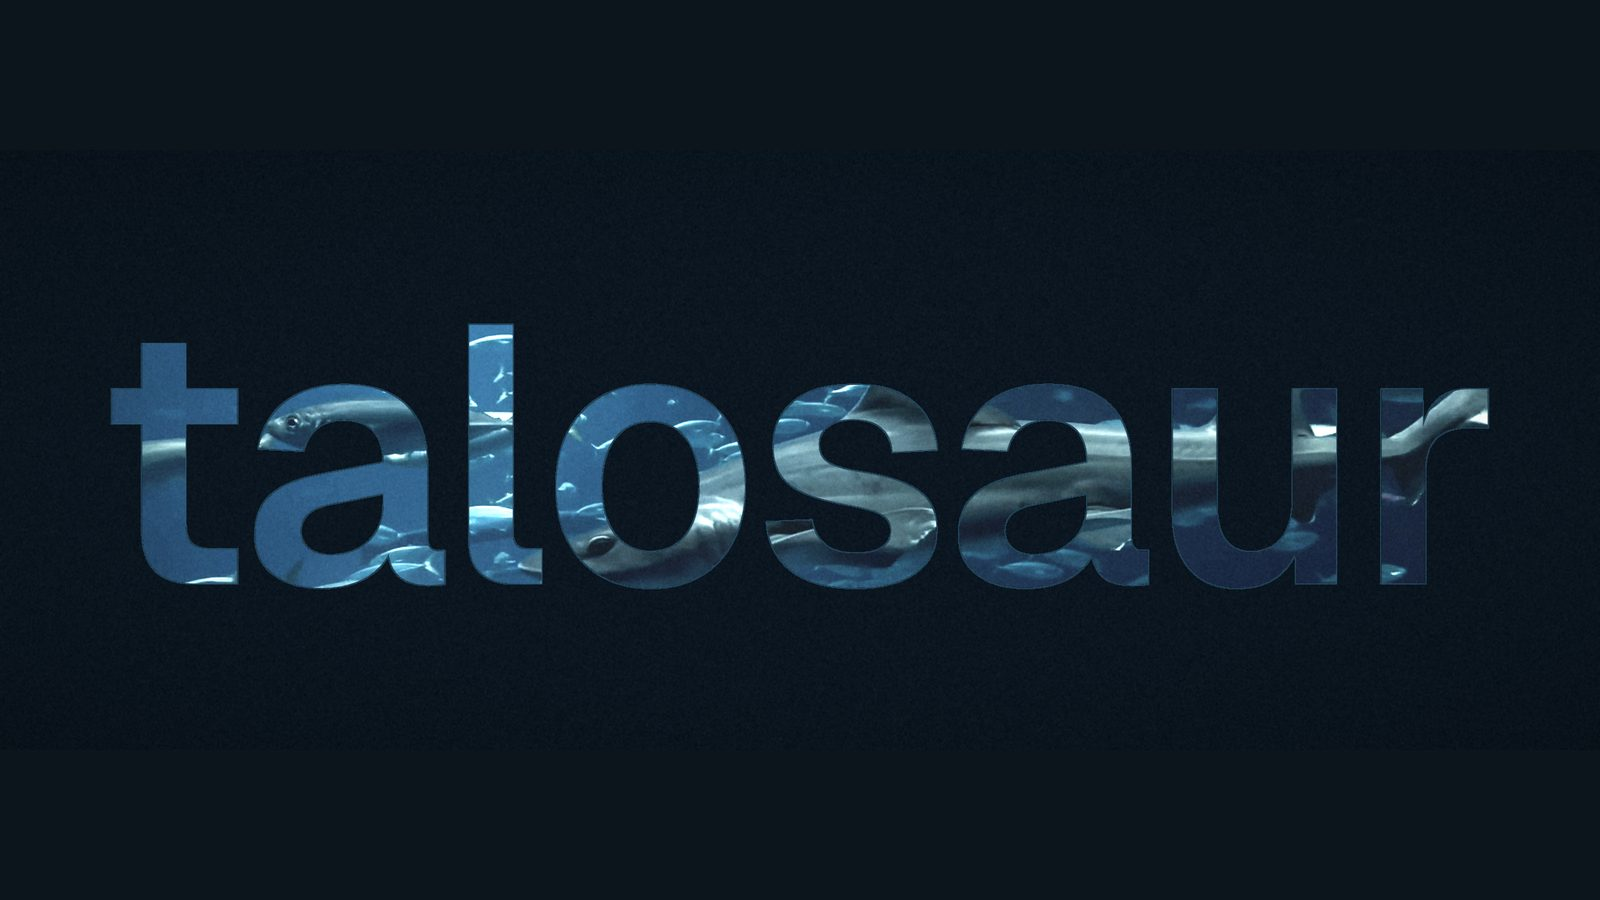
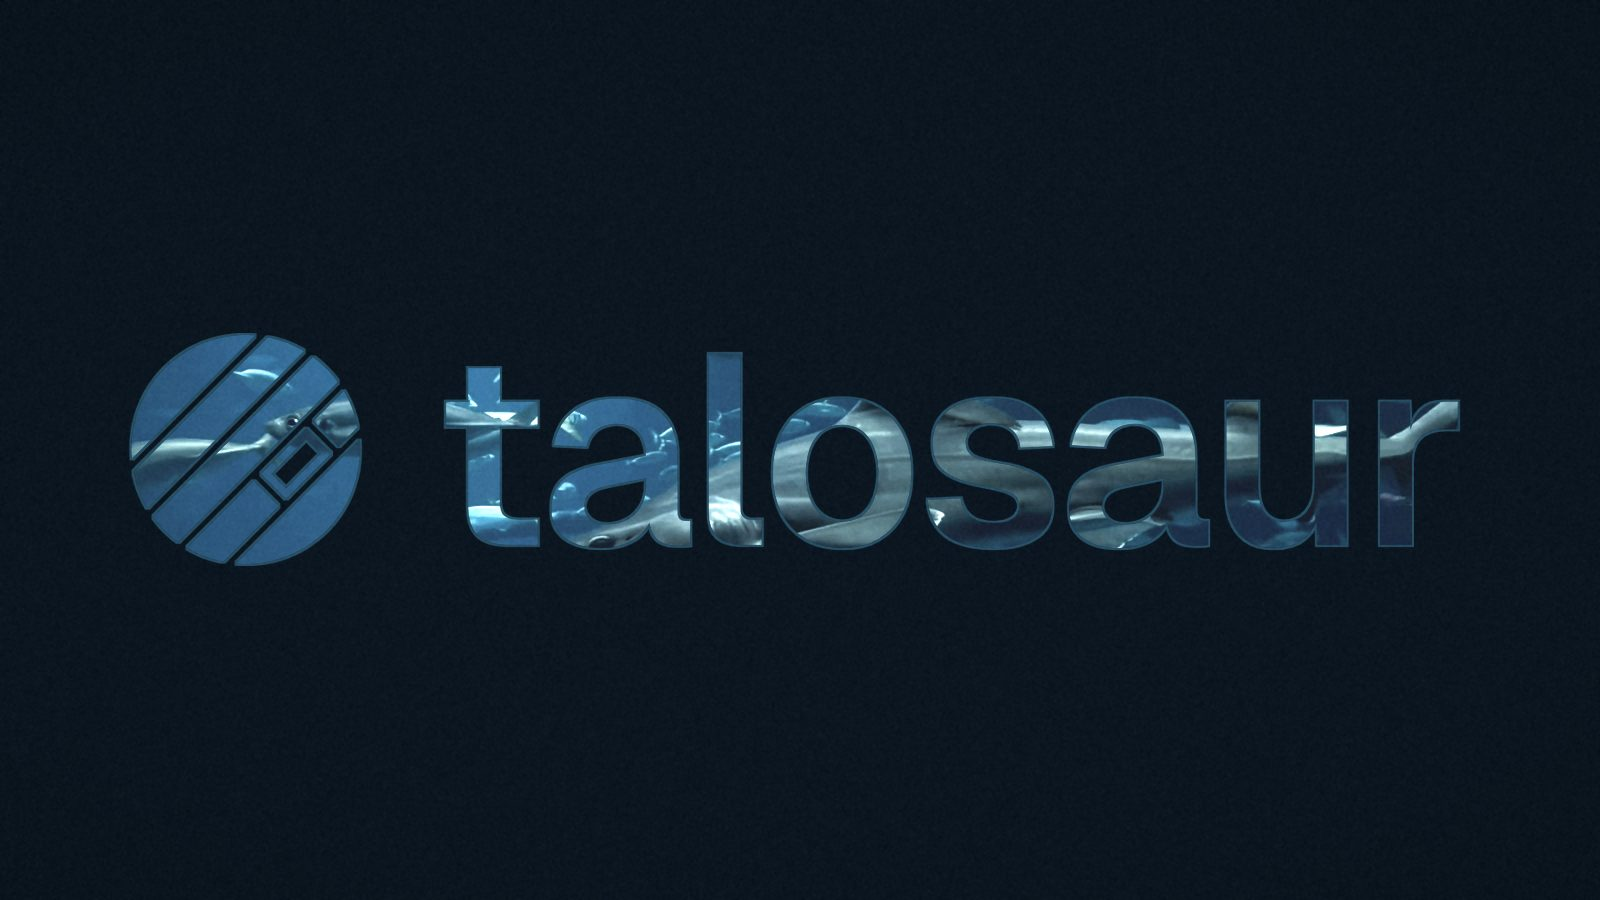
Photo headers on every inner page and new Home card images
- PageHeader takes an image (public/images/pages/) and becomes a
  full-width photo band under a floating menu, like the Home video.
  Without an image it stays the plain title with the glow.
- Six edited backgrounds, one film-style edit each: fish school with a
  pixel-drag smear (Who we are), sunbeams sinking into dots (The
  Problem), rover descent as a monitor feed (News), ship's wake with a
  dither split (Work with us), lathe in 1-bit (Positions), reef with
  displaced slices (Donate).
- Home cards: Live (camera feed), Who we are (logo cut out of a fish
  school), build log (the test ladder), twilight zone (jellyfish),
  meet the team (research ship crew), get in touch (ship offshore).
- All new images are from Pexels or NOAA (public domain).
- README: page-header photos, card table, logo and icon files.

Claude-Session: https://claude.ai/code/session_01HPvjW6KZMfatoVEK835rkc

Changed region(s): [[0.0625, 0.3422, 0.9375, 0.6533]]

diff --git a/README.md b/README.md
@@ -30,7 +30,9 @@ npm run check    # looks for mistakes in the code (typos in data files, missing 
 | What | File |
 |---|---|
 | Colors, fonts, spacing | `src/styles/global.css` (the `:root` block at the top) |
-| Top navigation and footer links, team email, social links | `src/data/site.ts` |
+| Top navigation and footer links, team email, social links, Twitch link | `src/data/site.ts` |
+| Logo files and browser-tab icons | `public/brand/`, `public/favicon.*`, `public/apple-touch-icon.png` |
+| Page-header photos | `public/images/pages/` |
 | Top navigation design | `src/components/Header.astro` |
 | Footer design | `src/components/Footer.astro` |
 | Home page video hero | `src/components/HeroVideo.astro` |
@@ -73,21 +75,35 @@ All photos live in `public/images/`. To swap one, overwrite the file and keep th
 |---|---|---|
 | `home-turtle.jpg` | Turtle | The 1775 Turtle illustration |
 | `home-edna.jpg` | Deep eDNA possibilities | DNA helix (still from the hero video) |
-| `home-live.jpg` | Talosaur Live | Research ship deck (still from the hero video) |
-| `home-team.jpg` | Who we are | Talosaur wordmark over a school of fish |
+| `home-live.jpg` | Talosaur Live | Milling machine as a "LIVE" camera feed (links to Twitch) |
+| `home-team.jpg` | Who we are | Talosaur logo cut out of a school of fish |
 | `home-positions.jpg` | Open positions | Hands at work in a lab (still from the hero video) |
-| `home-build-log.jpg` | Our build log | Light rays underwater |
-| `home-twilight-zone.jpg` | The twilight zone | Old map blending into a sonar map |
-| `home-meet-the-team.jpg` | Meet the team | School of fish (still from the hero video) |
-| `home-get-in-touch.jpg` | Get in touch | Jellyfish (still from the hero video) |
+| `home-build-log.jpg` | Our build log | The test ladder, Bench to Offshore, with "Now: Bench" |
+| `home-twilight-zone.jpg` | The twilight zone | Sea nettle jellyfish, half photo and half dots |
+| `home-meet-the-team.jpg` | Meet the team | Crew and rover on a research ship deck (NOAA) |
+| `home-get-in-touch.jpg` | Get in touch | A ship offshore |
 
-Swap any of these for real team photos whenever you have them.
+Swap any of these for real team photos whenever you have them. The build log image shows "Now: Bench"; when testing moves to the next step, ask for it to be regenerated (or swap in a photo from that test).
+
+**Page headers.** Every page in the top menu opens with a full-width photo band. The photos live in `public/images/pages/` and are named after the page: `who-we-are.jpg`, `the-problem.jpg`, `news.jpg`, `work-with-us.jpg`, `positions.jpg`, `donate.jpg`. Each is 2400 × 1350 and edited in the same style as the Home video (dots, smears, scan lines). The title sits over the bottom-left of the photo, so keep that area calm and darkish. To change which part of a photo stays visible on phones, edit `imagePosition` where the page uses `<PageHeader>` (for example `imagePosition="60% 50%"` keeps a bit right of center). Delete a page's photo and that page goes back to a plain title.
 
 **Team members:** the `photo` name in `src/data/team.ts`, saved in `public/images/team/` (portrait, about 800 × 1000 px). Until the file exists the card shows a panel with the person's initials.
 
 **News posts:** add `image: name.jpg` to the post and save the file in `public/images/news/`.
 
-Other files in `public/images/`: `hero-poster.jpg` (the still behind the Home video) and `og-image.jpg` (the preview image when a link to the site is shared).
+Other files in `public/images/`: `hero-poster.jpg` (the still behind the Home video) and `og-image.jpg` (the preview image when a link to the site is shared: the logo over a jellyfish, 1200 × 630).
+
+## Logo and icons
+
+The logo files are in `public/brand/` and come from the Talosaur brand pack (striped disc plus the lowercase wordmark):
+
+| File | Where it shows |
+|---|---|
+| `talosaur-lockup-reverse.svg` | Top menu (light stripes for the dark background) |
+| `talosaur-lockup-white.svg` | Giant logo over the Home video (inverted against the video, so keep it pure white) and the faint full-width logo in the footer |
+| `talosaur-mark-reverse.svg` | The disc on its own, for anywhere a small mark is needed |
+
+The browser-tab icons are `public/favicon.svg`, `public/favicon.png` (64 × 64) and `public/apple-touch-icon.png` (180 × 180, used when someone saves the site to a phone home screen): the disc on a navy rounded square. To update the logo, replace these files and keep the names.
 
 ## Add a news post
 
